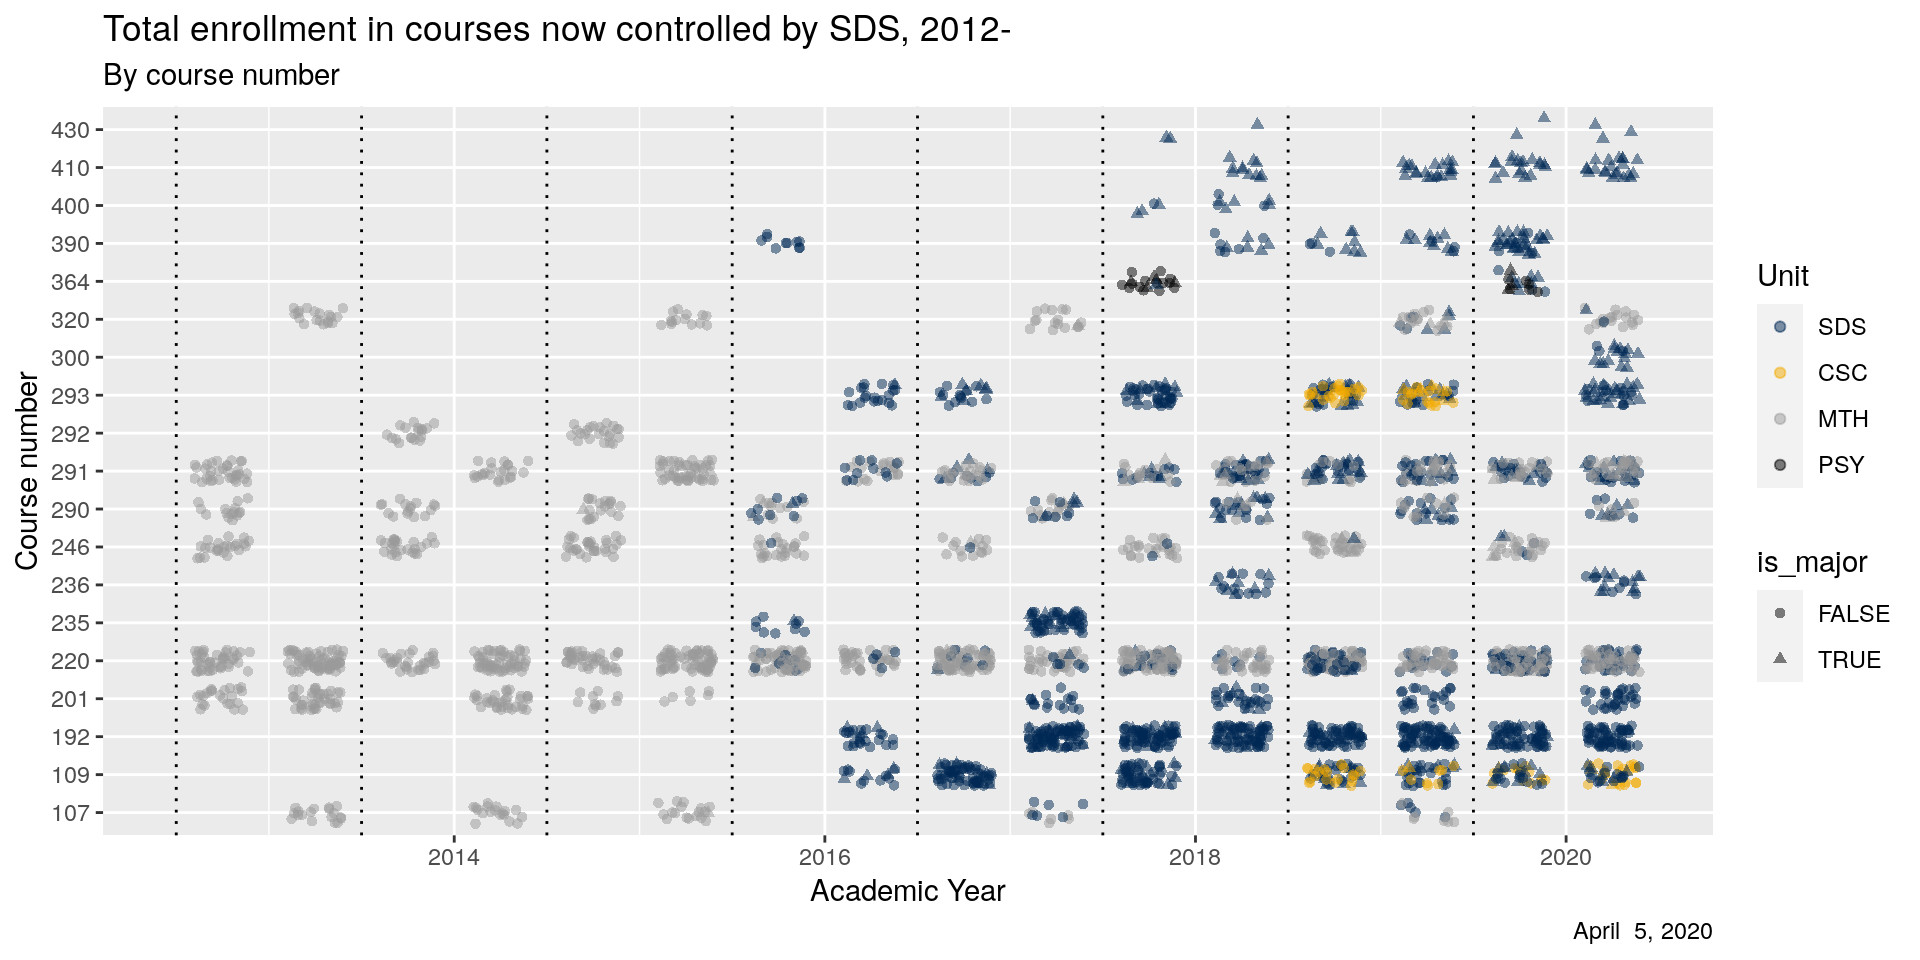
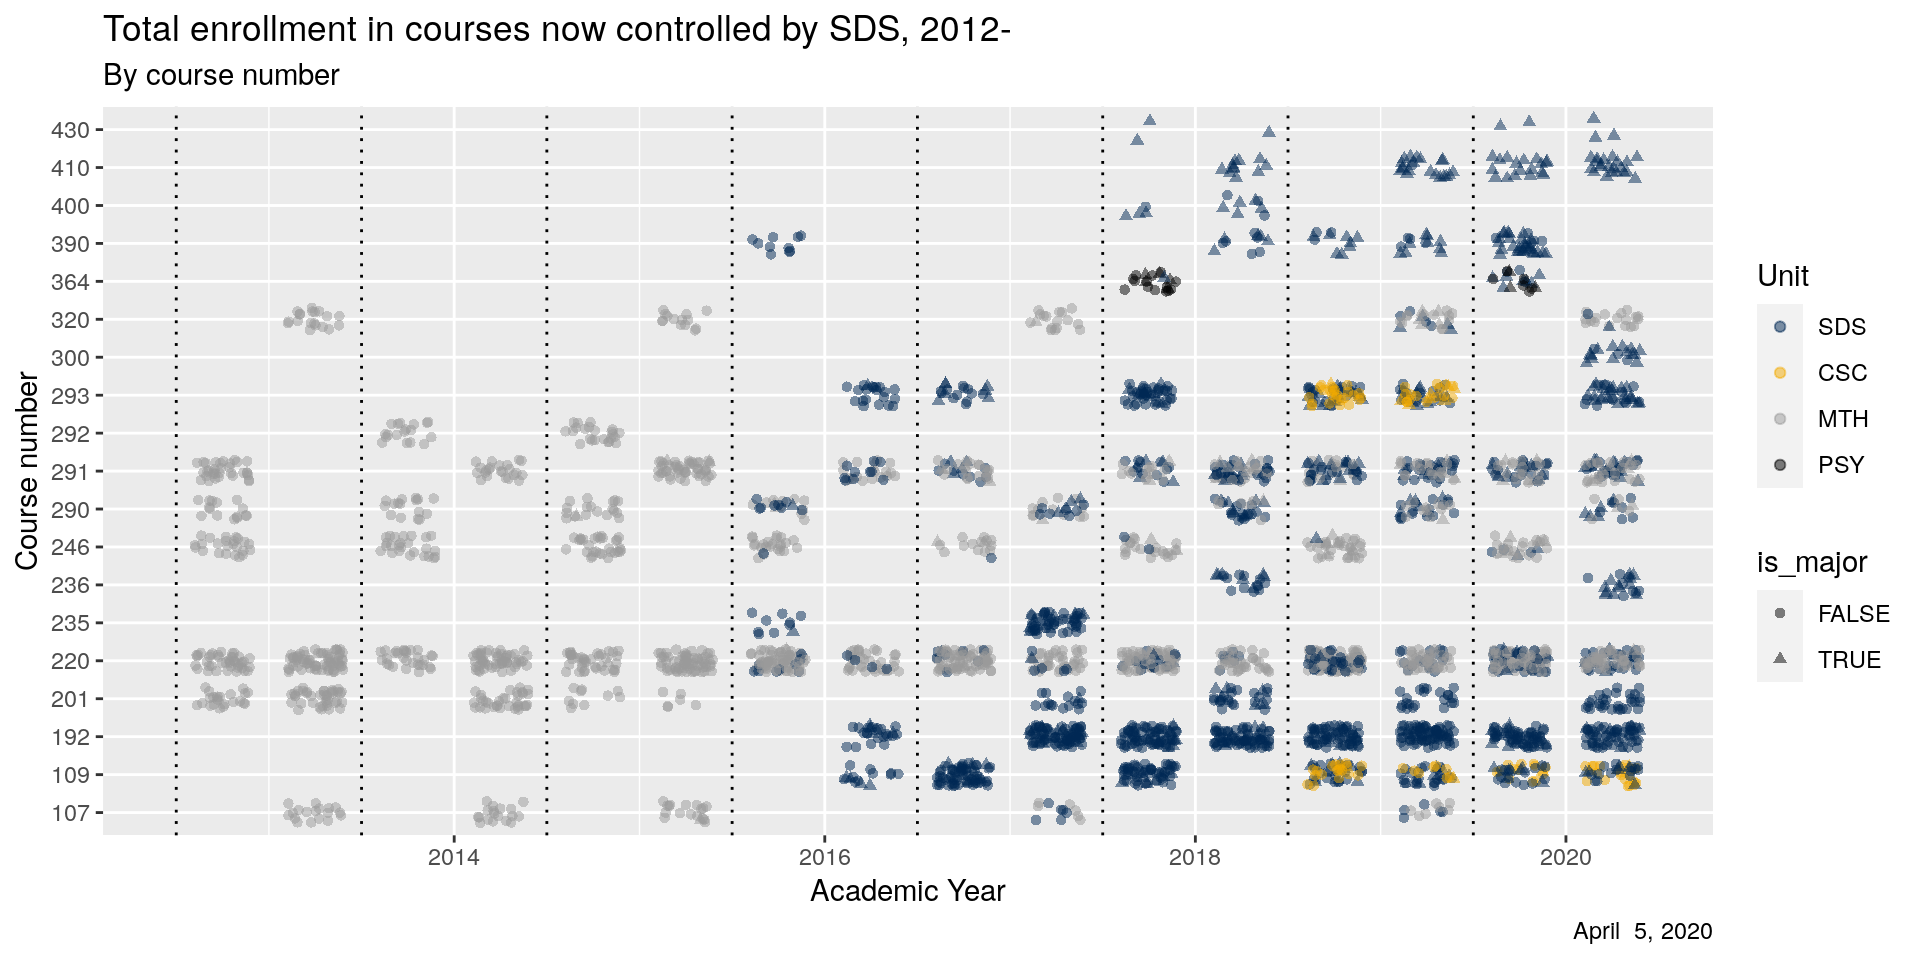
aggregated major plot by AY

diff --git a/docs/enrollments.html b/docs/enrollments.html
@@ -463,6 +463,7 @@ div.tocify {
 </div>
 <div id="constituents" class="section level2">
 <h2>Constituents</h2>
+<p><img src="enrollments_files/figure-html/enrollment_major-1.png" width="960" /></p>
 <div id="intro-statistics" class="section level3">
 <h3>Intro statistics</h3>
 <p><img src="enrollments_files/figure-html/enrollment_major_220-1.png" width="960" /></p>
